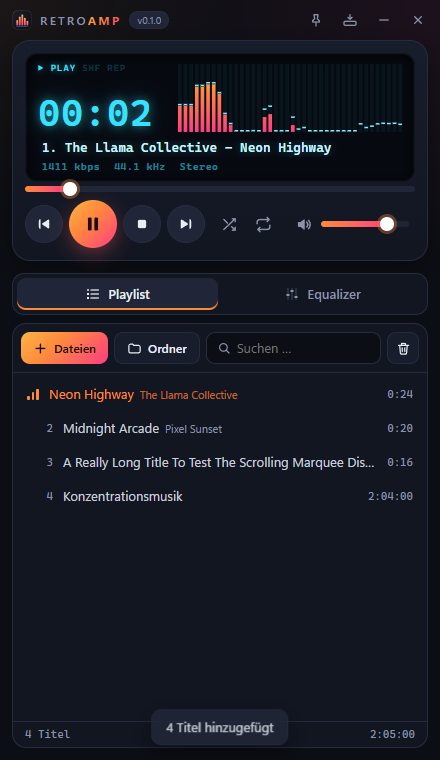
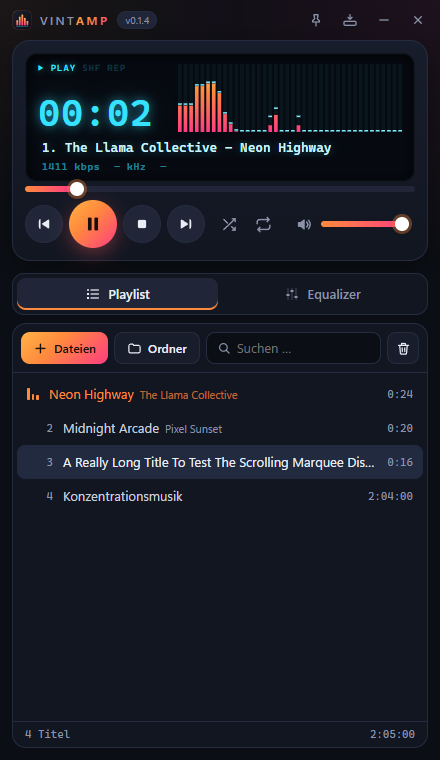
Docs: Retroamp heißt jetzt Vintamp, neue Screenshots

diff --git a/README.md b/README.md
@@ -1,20 +1,23 @@
-# Retroamp
+# Vintamp
 
-**Der Musikplayer, wie er früher war – nur schöner.**
-Klein, schnell, startet sofort und spielt so gut wie alles: mit Equalizer,
+**Der Player, wie er früher war – nur schöner.**
+Klein, schnell, startet sofort und spielt so gut wie alles, Musik wie Video: mit Equalizer,
 Spektrum-Visualizer und Mini-Modus, im modernen dunklen Design.
 
-**[⬇ Neueste Version für Windows herunterladen](https://github.com/hunther2k/retroamp-releases/releases/latest)**
+> Vintamp hieß bis Version 0.1.3 **Retroamp**. Installierte Versionen werden automatisch
+> umgestellt – Playlist und Einstellungen bleiben erhalten.
+
+**[⬇ Neueste Version für Windows herunterladen](https://github.com/hunther2k/vintamp-releases/releases/latest)**
 
 <p>
-  <img src="docs/player.png" alt="Retroamp – Player mit Playlist" width="300">
+  <img src="docs/player.png" alt="Vintamp – Player mit Playlist" width="300">
   &nbsp;
-  <img src="docs/equalizer.png" alt="Retroamp – 10-Band-Equalizer" width="300">
+  <img src="docs/equalizer.png" alt="Vintamp – 10-Band-Equalizer" width="300">
 </p>
 
 ---
 
-## Was Retroamp heute kann
+## Was Vintamp heute kann
 
 **Abspielen**
 - Spielt praktisch jedes Audioformat: MP3, FLAC, OGG/Opus, AAC/M4A, WAV, WMA, APE und mehr
@@ -39,7 +42,7 @@ Spektrum-Visualizer und Mini-Modus, im modernen dunklen Design.
 - Medientasten der Tastatur und klassische Tastenkürzel (Z X C V B)
 
 **Updates**
-- Retroamp sucht selbst nach neuen Versionen und installiert sie auf Knopfdruck
+- Vintamp sucht selbst nach neuen Versionen und installiert sie auf Knopfdruck
 - Jedes Update ist kryptografisch signiert – installiert wird nur, was wirklich von Hunther2K stammt
 
 ---
@@ -52,10 +55,10 @@ Spektrum-Visualizer und Mini-Modus, im modernen dunklen Design.
 | 2 | **Radio-Aufnahme** | Sendungen mitschneiden – automatisch in einzelne Titel aufgeteilt und mit Interpret und Titel versehen |
 | 3 | **Schnell-Schnitt** | Wellenform-Ansicht: Anfang oder Ende abschneiden, einen Teil in der Mitte entfernen, ein- und ausblenden – MP3s ohne Qualitätsverlust |
 | 4 | **Tag-Editor** | Titel, Interpret, Album, Jahr, Genre, Tracknummer und Cover bearbeiten – auch für viele Dateien auf einmal, Tags aus dem Dateinamen übernehmen |
-| 5 | **Videoplayer im Fenster** | Videos direkt in Retroamp, mit Untertiteln, Vollbild und Wiedergabegeschwindigkeit |
-| 6 | **YouTube Music** | Deine YouTube-Music-Bibliothek in Retroamp nutzen |
-| 7 | **Spotify** | Spotify aus Retroamp steuern: Suche, Playlists, aktueller Titel im Display (über Spotify Connect, Premium nötig) |
-| 8 | **Linux & macOS** | Retroamp auf allen drei Systemen |
+| 5 | **Videoplayer im Fenster** | Videos direkt in Vintamp, mit Untertiteln, Vollbild und Wiedergabegeschwindigkeit |
+| 6 | **YouTube Music** | Deine YouTube-Music-Bibliothek in Vintamp nutzen |
+| 7 | **Spotify** | Spotify aus Vintamp steuern: Suche, Playlists, aktueller Titel im Display (über Spotify Connect, Premium nötig) |
+| 8 | **Linux & macOS** | Vintamp auf allen drei Systemen |
 
 ## Ideen für später
 
@@ -78,18 +81,18 @@ Was noch denkbar ist – ohne feste Reihenfolge:
 
 ## Installieren
 
-1. [Neueste Version herunterladen](https://github.com/hunther2k/retroamp-releases/releases/latest)
-   (`Retroamp_x.y.z_x64-setup.exe`)
-2. Installer starten – fertig. Retroamp landet im Startmenü.
+1. [Neueste Version herunterladen](https://github.com/hunther2k/vintamp-releases/releases/latest)
+   (`Vintamp_x.y.z_x64-setup.exe`)
+2. Installer starten – fertig. Vintamp landet im Startmenü.
 
 **Voraussetzung:** Windows 10 oder 11, 64 Bit. Linux und macOS folgen.
 
 ## Updates
 
-Retroamp prüft beim Start, ob es eine neue Version gibt, und zeigt dann oben einen Hinweis.
+Vintamp prüft beim Start, ob es eine neue Version gibt, und zeigt dann oben einen Hinweis.
 Von Hand: Klick auf die Versionsnummer oben links → **Nach Updates suchen**.
 
 ## Wünsche und Fehler
 
 Etwas funktioniert nicht oder du hast eine Idee?
-Schreib es gern als [Issue](https://github.com/hunther2k/retroamp-releases/issues).
+Schreib es gern als [Issue](https://github.com/hunther2k/vintamp-releases/issues).
